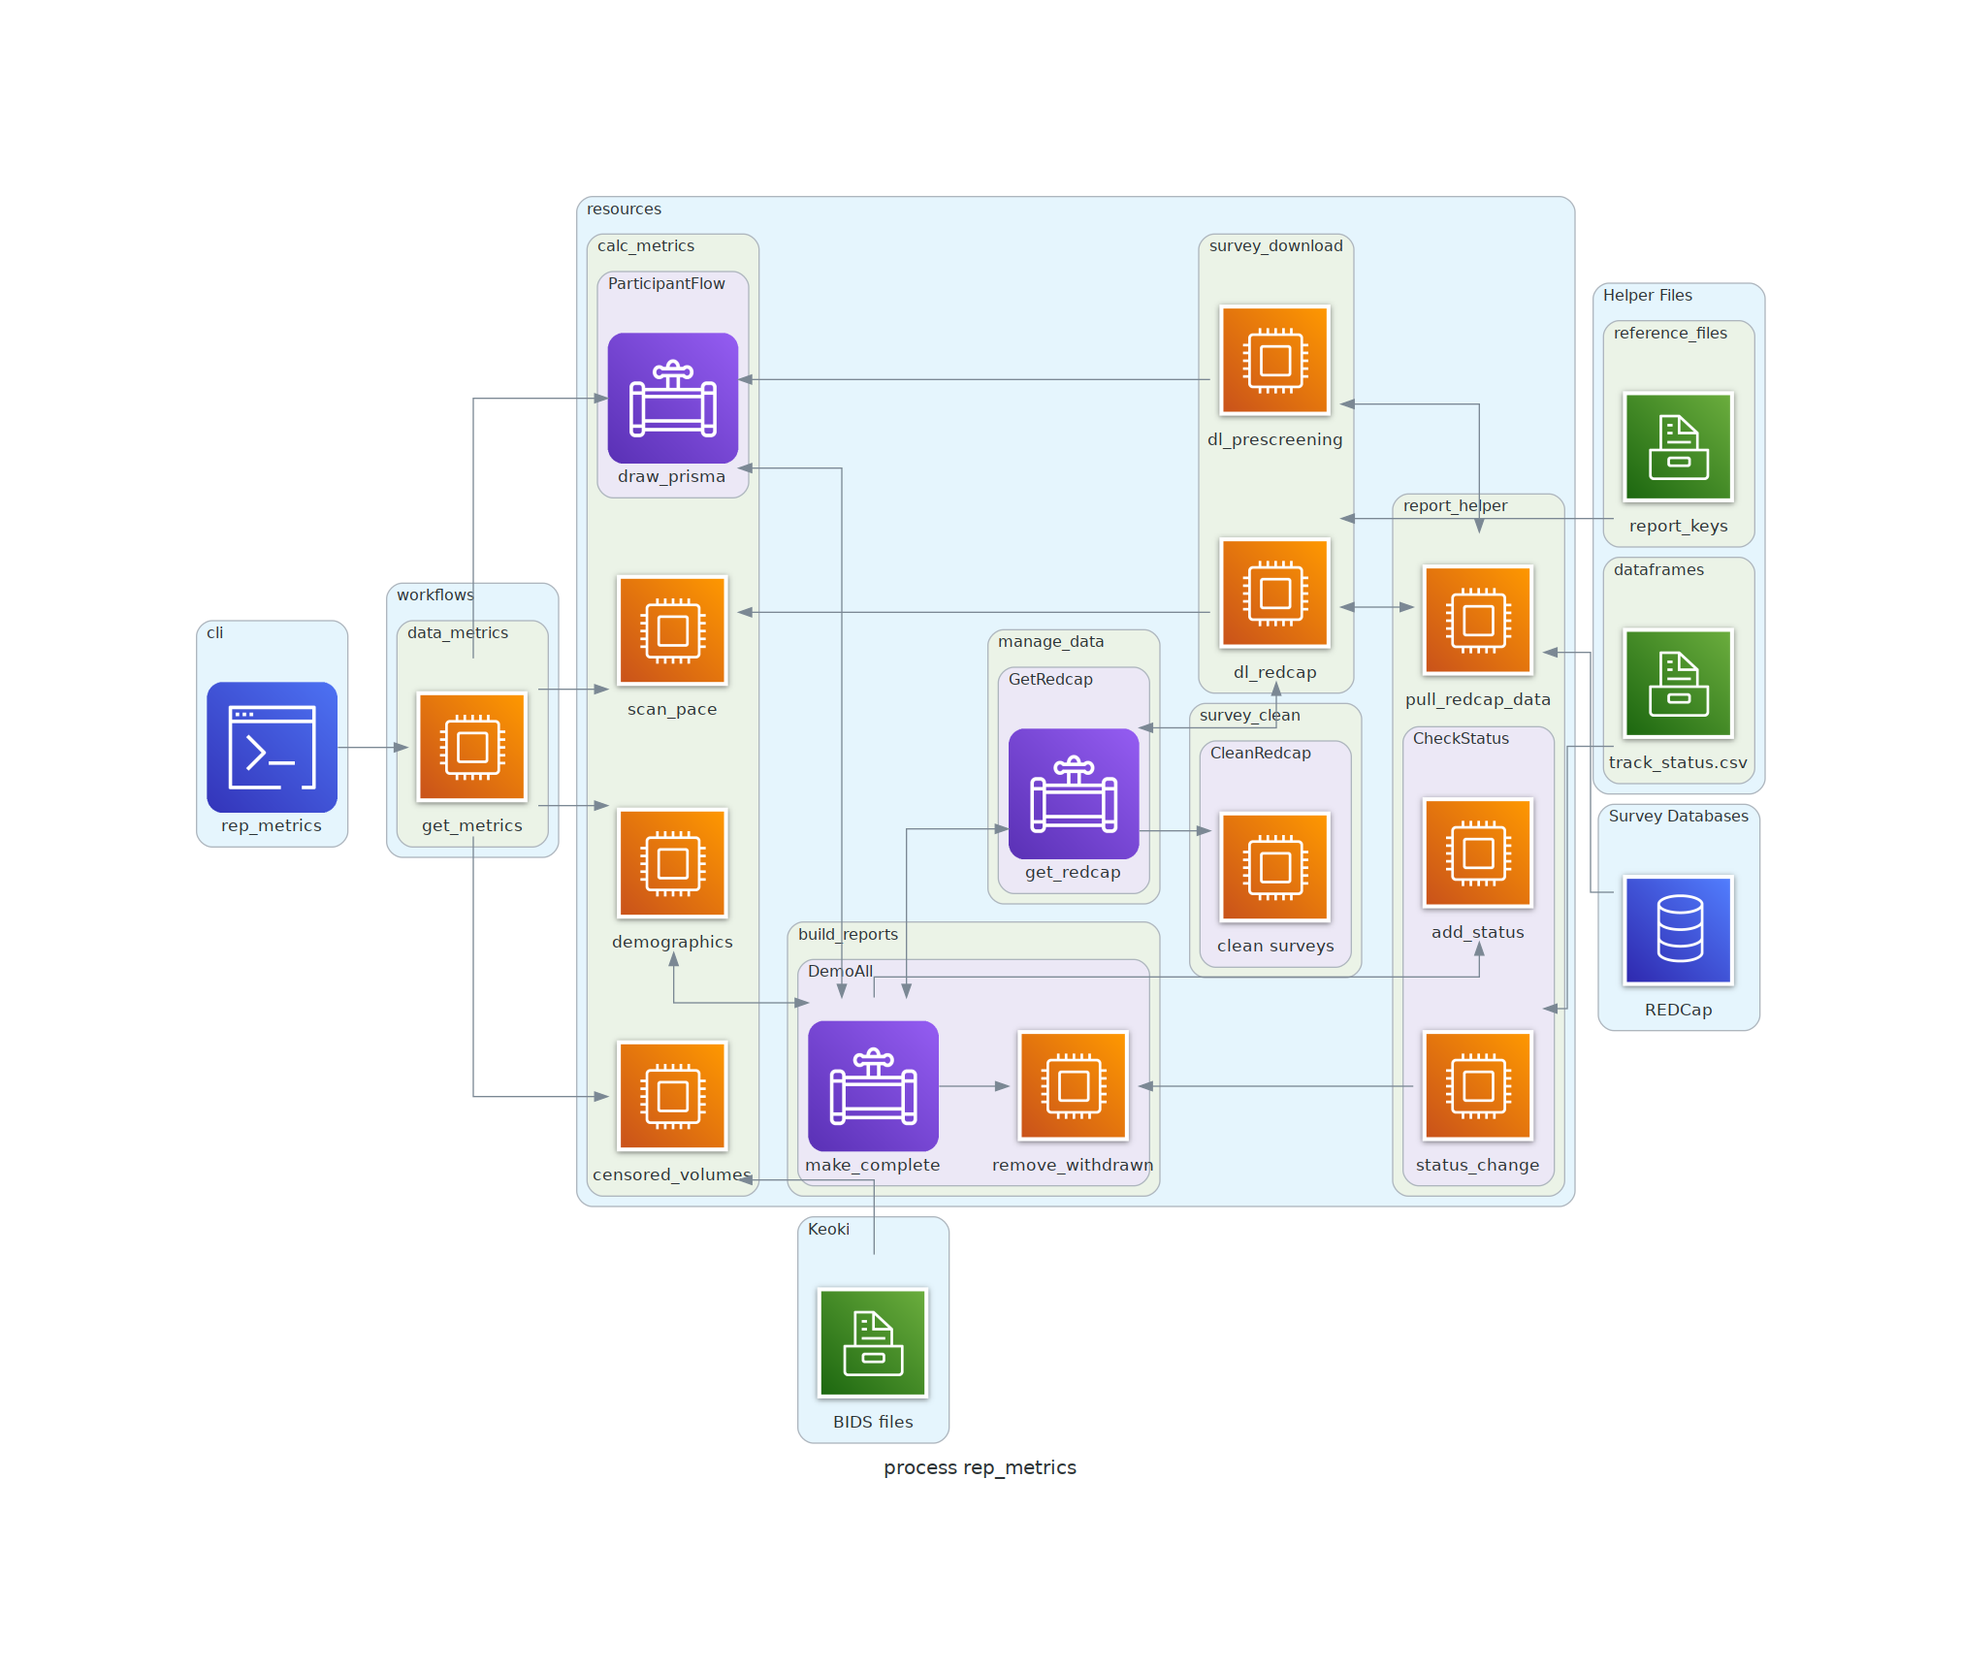
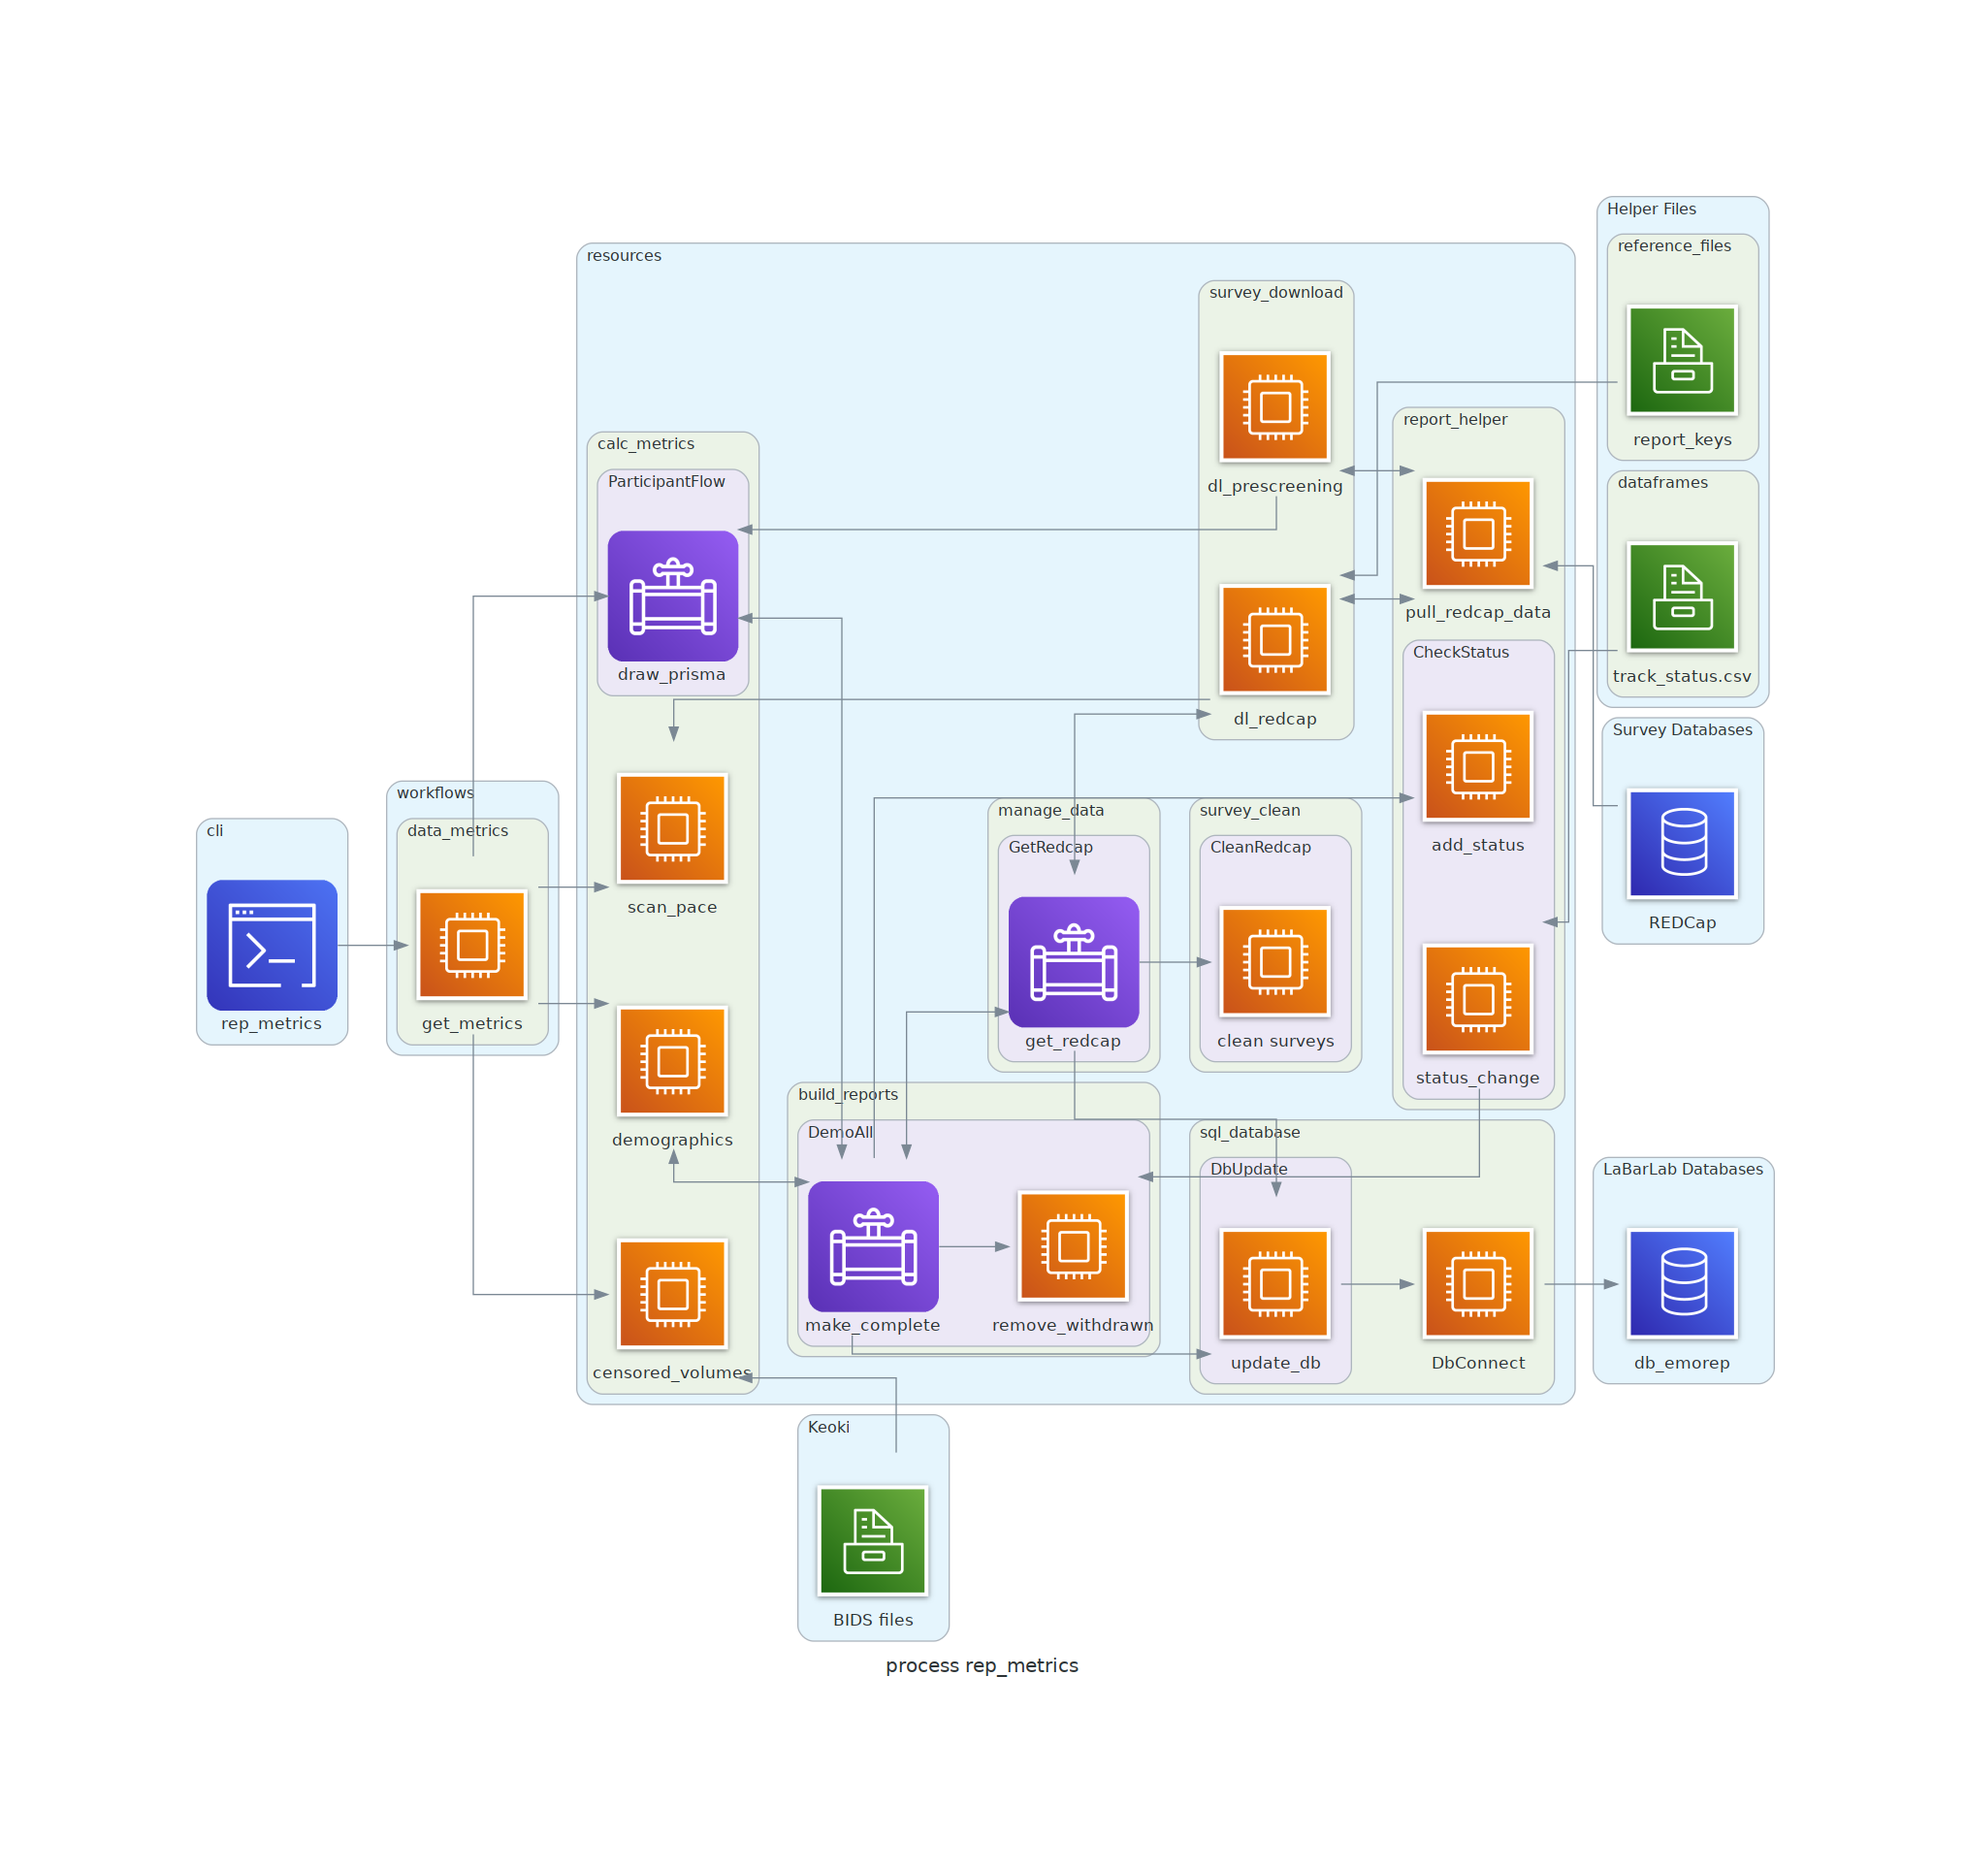
[DEV] started rep_ndar process diagram

Changed region(s): [[0.0934, 0.0922, 0.9031, 0.8915]]

diff --git a/diagrams/mk_diagrams.py b/diagrams/mk_diagrams.py
@@ -190,10 +190,12 @@ with Diagram("process get_surveys", graph_attr=graph_attr, show=False):
     with Cluster("cli"):
         cli_get_surveys = CommandLineInterface("get_surveys")
 
-    with Cluster("Keoki"):
-        bids_files = Storage("BIDS files")
-
     with Cluster("resources"):
+
+        with Cluster("build_reports"):
+            with Cluster("DemoAll"):
+                rsc_mk_compl = DataPipeline("make_complete")
+
         with Cluster("manage_data"):
             with Cluster("GetRest"):
                 rsc_get_rest = DataPipeline("get_rest")
@@ -203,17 +205,6 @@ with Diagram("process get_surveys", graph_attr=graph_attr, show=False):
                 rsc_get_qual = DataPipeline("get_qualtrics")
             with Cluster("GetTask"):
                 rsc_get_task = DataPipeline("get_task")
-
-        with Cluster("survey_download"):
-            rsc_sur_dl_rc = Compute("dl_redcap")
-            rsc_sur_dl_qual = Compute("dl_qualtrics")
-
-        with Cluster("survey_clean"):
-            rsc_sur_cl_rr = Compute("clean_rest_ratings")
-            with Cluster("CleanRedcap"):
-                rsc_sur_cl_rc = Compute("clean surveys")
-            with Cluster("CleanQualtrics"):
-                rsc_sur_cl_qual = Compute("clean surveys")
 
         with Cluster("report_helper"):
             with Cluster("CheckStatus"):
@@ -226,9 +217,19 @@ with Diagram("process get_surveys", graph_attr=graph_attr, show=False):
             with Cluster("DbUpdate"):
                 rsc_db_update = Compute("update_db")
 
-        with Cluster("build_reports"):
-            with Cluster("DemoAll"):
-                rsc_mk_compl = DataPipeline("make_complete")
+        with Cluster("survey_clean"):
+            rsc_sur_cl_rr = Compute("clean_rest_ratings")
+            with Cluster("CleanRedcap"):
+                rsc_sur_cl_rc = Compute("clean surveys")
+            with Cluster("CleanQualtrics"):
+                rsc_sur_cl_qual = Compute("clean surveys")
+
+        with Cluster("survey_download"):
+            rsc_sur_dl_rc = Compute("dl_redcap")
+            rsc_sur_dl_qual = Compute("dl_qualtrics")
+
+    with Cluster("Keoki"):
+        bids_files = Storage("BIDS files")
 
     with Cluster("Helper Files"):
         with Cluster("dataframes"):
@@ -299,6 +300,12 @@ with Diagram("process rep_metrics", graph_attr=graph_attr, show=False):
             wf_get_metrics = Compute("get_metrics")
 
     with Cluster("resources"):
+
+        with Cluster("build_reports"):
+            with Cluster("DemoAll"):
+                rsc_mk_compl = DataPipeline("make_complete")
+                rsc_rm_with = Compute("remove_withdrawn")
+
         with Cluster("calc_metrics"):
             rsc_demographics = Compute("demographics")
             rsc_scan_pace = Compute("scan_pace")
@@ -306,10 +313,9 @@ with Diagram("process rep_metrics", graph_attr=graph_attr, show=False):
             with Cluster("ParticipantFlow"):
                 rsc_draw_prisma = DataPipeline("draw_prisma")
 
-        with Cluster("build_reports"):
-            with Cluster("DemoAll"):
-                rsc_mk_compl = DataPipeline("make_complete")
-                rsc_rm_with = Compute("remove_withdrawn")
+        with Cluster("manage_data"):
+            with Cluster("GetRedcap"):
+                rsc_get_redcap = DataPipeline("get_redcap")
 
         with Cluster("report_helper"):
             with Cluster("CheckStatus"):
@@ -317,9 +323,10 @@ with Diagram("process rep_metrics", graph_attr=graph_attr, show=False):
                 rsc_stat_add = Compute("add_status")
             rsc_pull_rc = Compute("pull_redcap_data")
 
-        with Cluster("manage_data"):
-            with Cluster("GetRedcap"):
-                rsc_get_redcap = DataPipeline("get_redcap")
+        with Cluster("sql_database"):
+            rsc_db_connect = Compute("DbConnect")
+            with Cluster("DbUpdate"):
+                rsc_db_update = Compute("update_db")
 
         with Cluster("survey_clean"):
             with Cluster("CleanRedcap"):
@@ -338,6 +345,9 @@ with Diagram("process rep_metrics", graph_attr=graph_attr, show=False):
 
     with Cluster("Survey Databases"):
         db_redcap = Database("REDCap")
+
+    with Cluster("LaBarLab Databases"):
+        rsc_db_emorep = Database("db_emorep")
 
     with Cluster("Keoki"):
         bids_files = Storage("BIDS files")
@@ -369,6 +379,8 @@ with Diagram("process rep_metrics", graph_attr=graph_attr, show=False):
         << db_redcap
     )
     rsc_sur_dl_rc << ref_file
+    rsc_get_redcap >> rsc_db_update >> rsc_db_connect >> rsc_db_emorep
+    rsc_mk_compl >> rsc_db_update
 
     #
     rsc_scan_pace << rsc_sur_dl_rc
@@ -377,5 +389,135 @@ with Diagram("process rep_metrics", graph_attr=graph_attr, show=False):
     rsc_draw_prisma >> Edge(color="") << rsc_mk_compl
     rsc_draw_prisma << rsc_sur_dl_prescr >> Edge(color="") << rsc_pull_rc
 
+
+# %%
+with Diagram("process rep_ndar", graph_attr=graph_attr, show=False):
+    with Cluster("cli"):
+        cli_rep_ndar = CommandLineInterface("rep_ndar")
+
+    with Cluster("workflows"):
+        with Cluster("required_reports"):
+            with Cluster("MakeNdarReports"):
+                wf_mk_report = Compute("make_report")
+
+    with Cluster("Keoki"):
+        bids_files = Storage("BIDS files")
+
+    with Cluster("resources"):
+
+        with Cluster("build_ndar"):
+            with Cluster("NdarFoo"):
+                rsc_mk_ndar = Compute("make_foo")
+
+        with Cluster("build_reports"):
+            with Cluster("DemoAll"):
+                rsc_mk_compl = DataPipeline("make_complete")
+                rsc_rm_with = Compute("remove_withdrawn")
+                rsc_sub_cycle = Compute("submission_cycle")
+
+        with Cluster("manage_data"):
+            with Cluster("GetRest"):
+                rsc_get_rest = DataPipeline("get_rest")
+            with Cluster("GetRedcap"):
+                rsc_get_redcap = DataPipeline("get_redcap")
+            with Cluster("GetQualtrics"):
+                rsc_get_qual = DataPipeline("get_qualtrics")
+
+        with Cluster("report_helper"):
+            with Cluster("CheckStatus"):
+                rsc_stat_change = Compute("status_change")
+            rsc_pull_rc = Compute("pull_redcap_data")
+            rsc_pull_qual = Compute("pull_qualtrics_data")
+            rsc_get_sury_age = Compute("get_survey_age")
+            rsc_mine_tpl = Compute("mine_template")
+            rsc_calc_age_mo = Compute("calc_age_mo")
+
+        with Cluster("sql_database"):
+            rsc_db_connect = Compute("DbConnect")
+            with Cluster("DbUpdate"):
+                rsc_db_update = Compute("update_db")
+
+        with Cluster("survey_clean"):
+            rsc_sur_cl_rr = Compute("clean_rest_ratings")
+            with Cluster("CleanRedcap"):
+                rsc_sur_cl_rc = Compute("clean surveys")
+            with Cluster("CleanQualtrics"):
+                rsc_sur_cl_qual = Compute("clean surveys")
+
+        with Cluster("survey_download"):
+            rsc_sur_dl_rc = Compute("dl_redcap")
+            rsc_sur_dl_qual = Compute("dl_qualtrics")
+
+    with Cluster("Helper Files"):
+        with Cluster("dataframes"):
+            ref_dfs = Storage("track_status.csv")
+        with Cluster("reference_files"):
+            ref_file = Storage("report_keys")
+        with Cluster("templates"):
+            ref_tpl = Storage("NDAR template")
+
+    with Cluster("LaBarLab Databases"):
+        rsc_db_emorep = Database("db_emorep")
+
+    with Cluster("Survey Databases"):
+        db_redcap = Database("REDCap")
+        db_qualtrics = Database("Qualtrics")
+
+    #
+    cli_rep_ndar >> wf_mk_report
+
+    #
+    (
+        wf_mk_report
+        >> Edge(color="")
+        << rsc_mk_compl
+        >> Edge(color="")
+        << rsc_get_redcap
+        >> rsc_sur_cl_rc
+    )
+    rsc_mk_compl >> rsc_rm_with << rsc_stat_change << ref_dfs
+    rsc_mk_compl >> rsc_sub_cycle
+    (
+        rsc_get_redcap
+        >> Edge(color="")
+        << rsc_sur_dl_rc
+        >> Edge(color="")
+        << rsc_pull_rc
+        << db_redcap
+    )
+    rsc_sur_dl_rc << ref_file
+    rsc_get_redcap >> rsc_db_update >> rsc_db_connect >> rsc_db_emorep
+    rsc_mk_compl >> rsc_db_update
+
+    # GetRest
+    (
+        wf_mk_report
+        >> Edge(color="")
+        << rsc_get_rest
+        >> Edge(color="")
+        << rsc_sur_cl_rr
+        << rsc_stat_change
+        << ref_dfs
+    )
+    rsc_sur_cl_rr << bids_files
+    rsc_get_rest >> rsc_db_update >> rsc_db_connect >> rsc_db_emorep
+
+    # GetQualtrics
+    (
+        cli_get_surveys
+        >> rsc_get_qual
+        >> Edge(color="")
+        << rsc_sur_dl_qual
+        << ref_file
+    )
+    rsc_sur_dl_qual >> Edge(color="") << rsc_pull_qual << db_qualtrics
+    rsc_get_qual >> Edge(color="") << rsc_sur_cl_qual << rsc_stat_change
+    rsc_get_qual >> rsc_db_update
+
+    #
+    wf_mk_report >> rsc_mk_ndar << bids_files
+    rsc_mk_ndar << rsc_get_sury_age
+    rsc_mk_ndar << rsc_calc_age_mo
+    rsc_mk_ndar << rsc_mine_tpl << ref_tpl
 
 # %%
